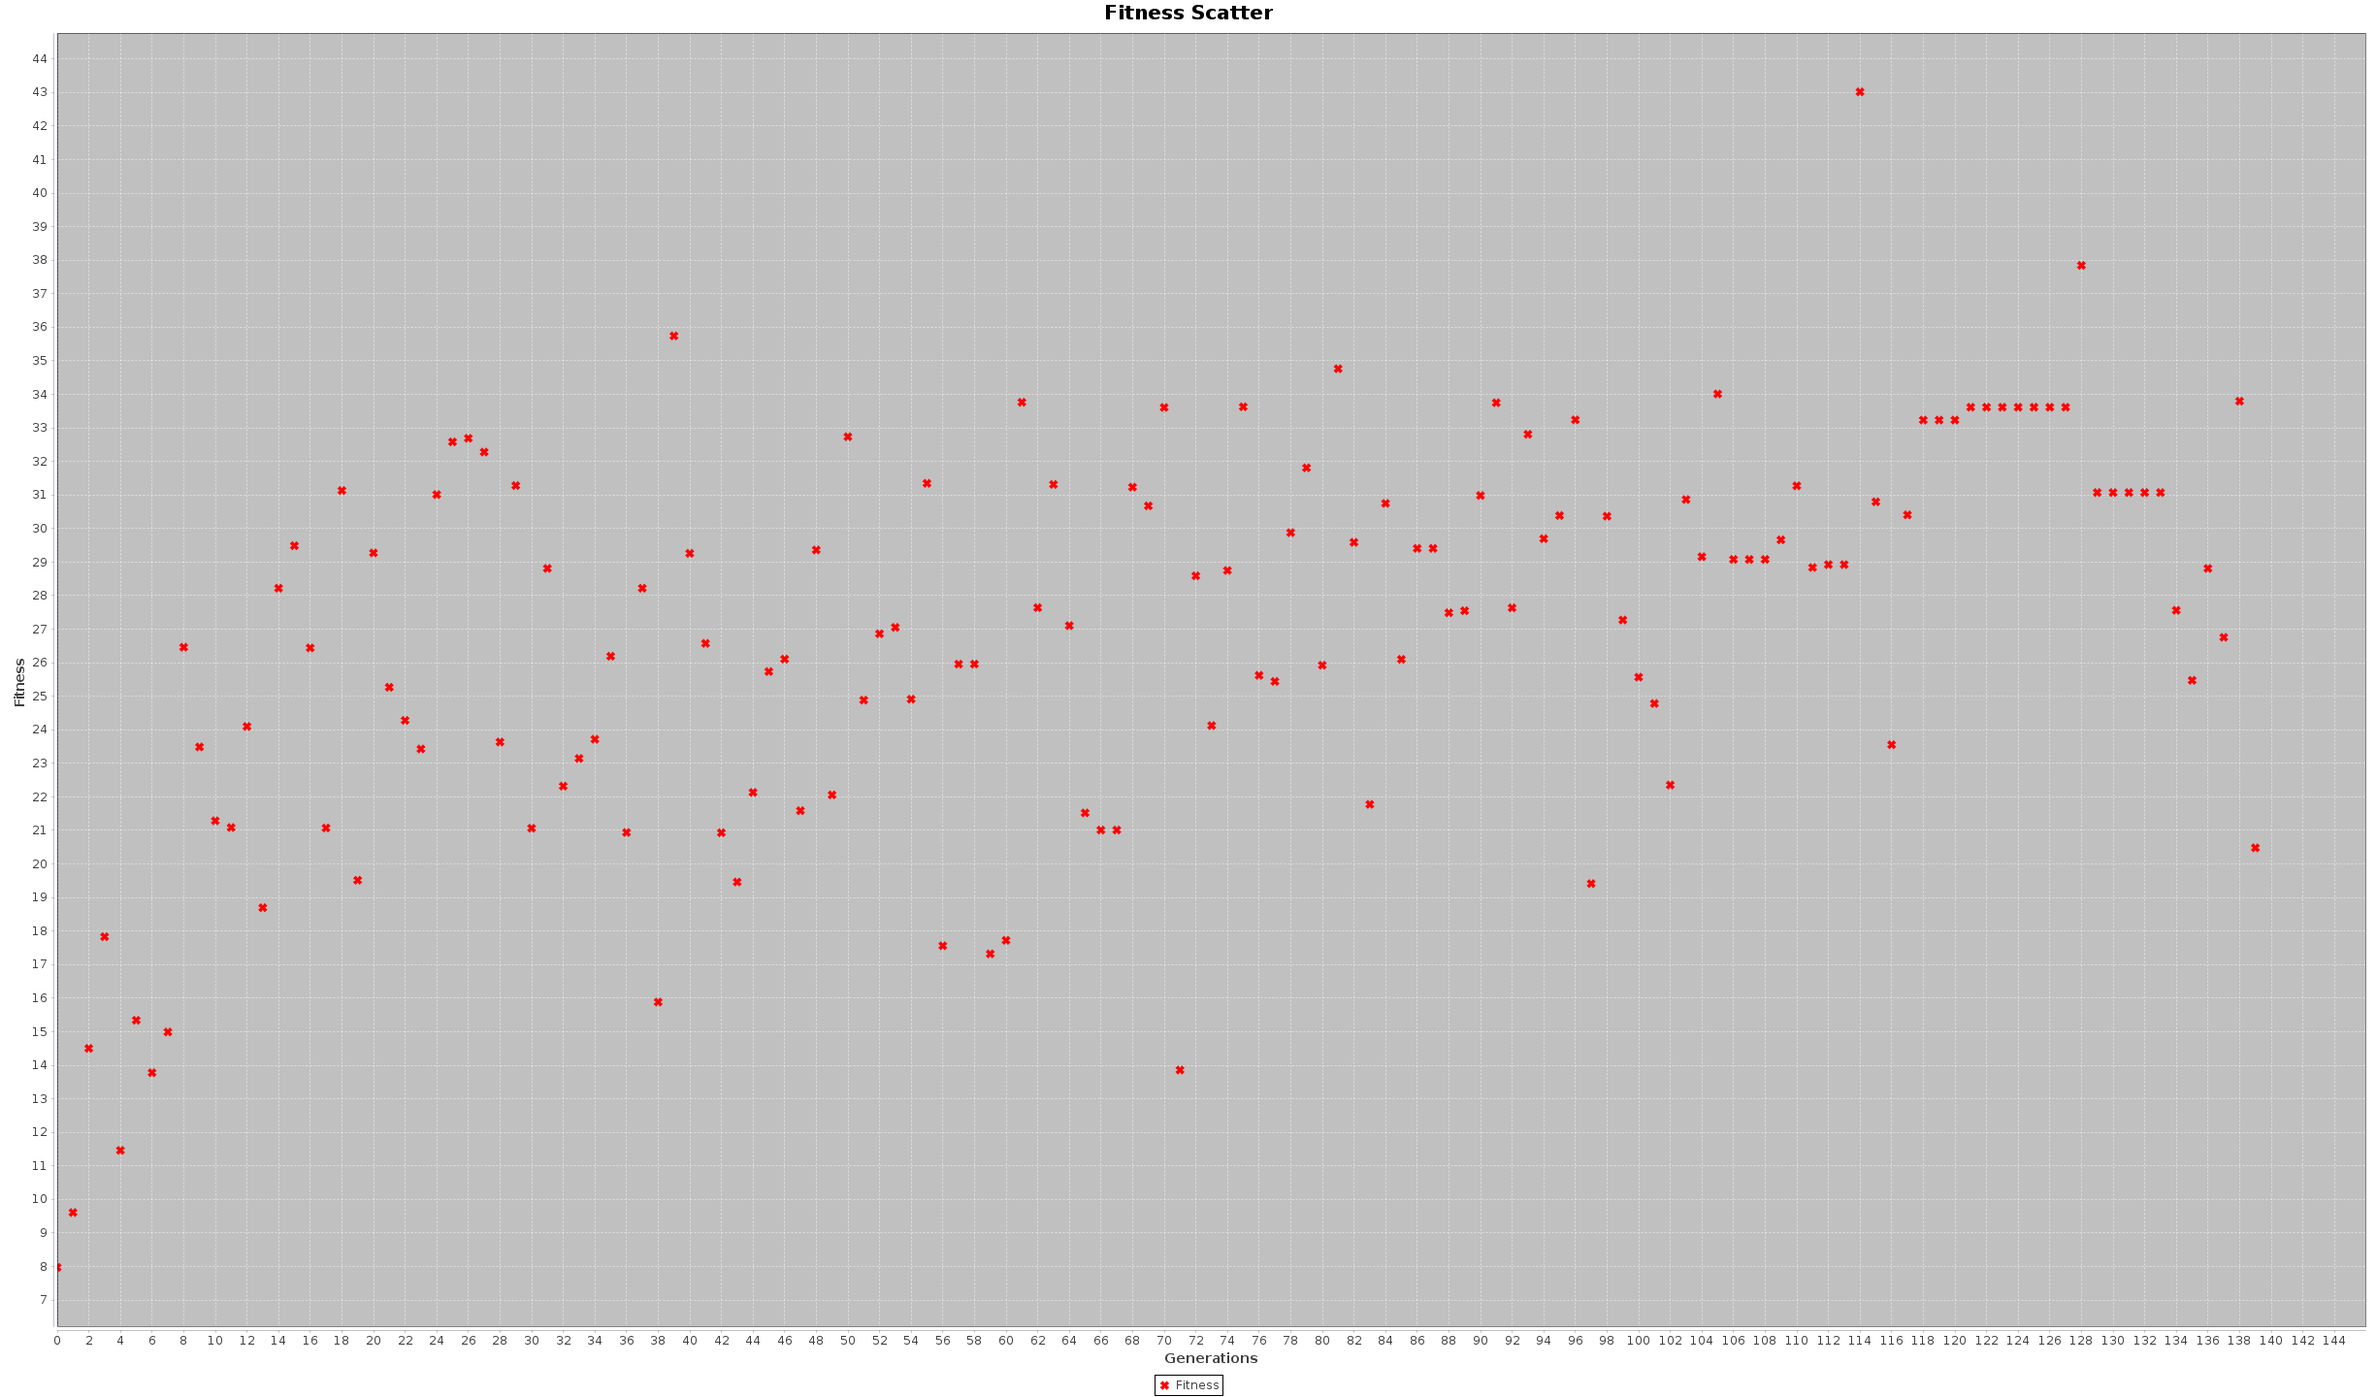
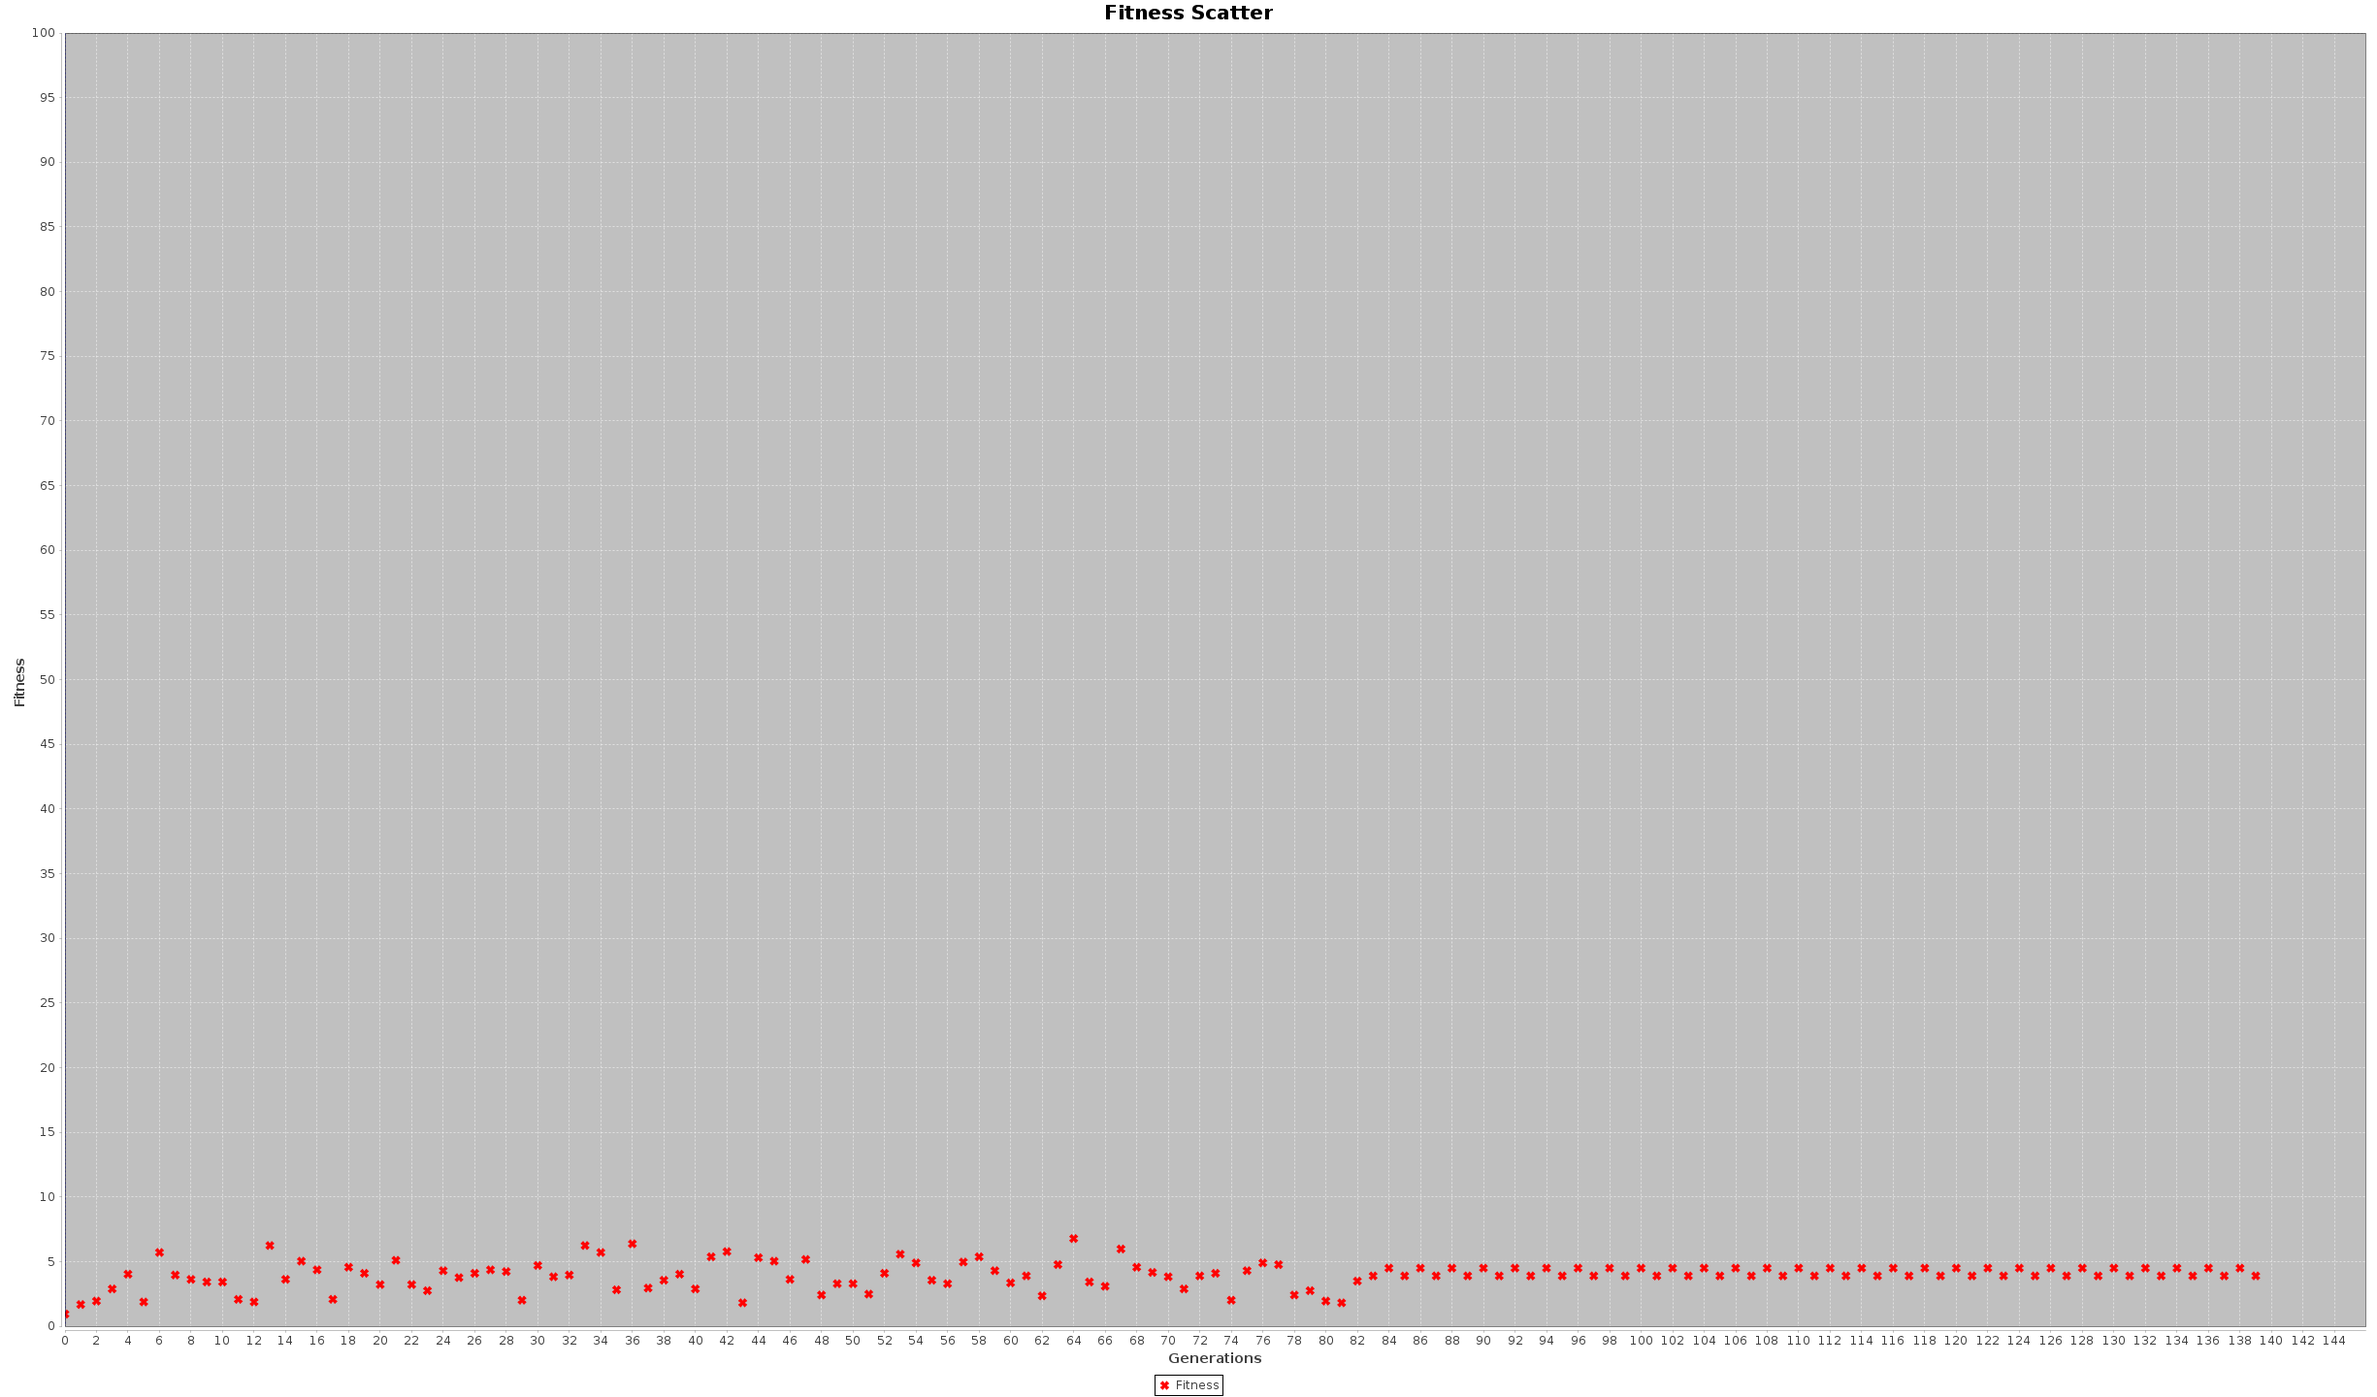
refactored

diff --git a/src/MyWorld.java b/src/MyWorld.java
@@ -16,6 +16,8 @@ import org.jfree.chart.ChartFrame;
 import org.jfree.chart.ChartRenderingInfo;
 import org.jfree.chart.ChartUtilities;
 import org.jfree.chart.JFreeChart;
+import org.jfree.chart.axis.NumberAxis;
+import org.jfree.chart.axis.NumberTickUnit;
 import org.jfree.chart.entity.StandardEntityCollection;
 import org.jfree.chart.plot.PlotOrientation;
 import org.jfree.chart.plot.XYPlot;
@@ -23,8 +25,6 @@ import org.jfree.chart.renderer.xy.XYItemRenderer;
 import org.jfree.data.xy.XYSeries;
 import org.jfree.data.xy.XYSeriesCollection;
 import org.jfree.util.ShapeUtilities;
-
-
 
 /**
 * The MyWorld extends the cosc343 assignment 2 World.  Here you can set 
@@ -50,20 +50,15 @@ public class MyWorld extends World {
     
     private int genCounter = numGenerations;
     
-    private int prevSurvivors = 0;
-    private MyCreature[] prevOldGen = null;
     private double[] averageFitnessPerGen = new double[numGenerations];
     private int avgFitIdx = 0;
-        
+    private int avgEnergy = 0;   
+    
     private double determineFitness(MyCreature creature) {
-
         double fitness = 0;
-        int state = 0;
         
-        if(creature.isDead()) state = 0;
-        else state = 1;
-            
-        fitness = creature.getEnergy() + (state * numTurns - creature.timeOfDeath());
+        avgEnergy += creature.getEnergy();
+        fitness = creature.getEnergy() * ((numTurns - creature.timeOfDeath()) / numTurns);
         
         return fitness;
     }
@@ -73,7 +68,6 @@ public class MyWorld extends World {
         MyCreature[] oldPopulation = (MyCreature[]) oldPopulationCt;
         MyCreature[] newGeneration = new MyCreature[numCreatures];
         MyCreature fittestCreature = null;
-        Deque<MyCreature> survivedCreaturesStack = new ArrayDeque<>();
         List<MyCreature>  survivedCreaturesArray = new ArrayList<>();
         
         double avgFitness = 0;
@@ -88,102 +82,45 @@ public class MyWorld extends World {
             
             avgFitness += fitness;
             
-            if(!oldPopulation[i].isDead()) {
-                if(fitness > maxFitness) {
-                    maxFitness = fitness;
-                    fittestCreature = oldPopulation[i];
-                    fittestCreatureIdx = i;
-                }
-                /*
-                survivedCreaturesStack.push(oldPopulation[i]);
-                survivedCreaturesArray.add(oldPopulation[i]);
-                noEliteCreatures++;*/
+            //if(!oldPopulation[i].isDead()) {
+                
+                            
+            if(fitness > maxFitness) {
+                maxFitness = fitness;
+                fittestCreature = oldPopulation[i];
+                fittestCreatureIdx = i;
             }
-        }      
+            
+            if(!oldPopulation[i].isDead()) {      
+                //survivedCreaturesStack.push(oldPopulation[i]);
+              survivedCreaturesArray.add(oldPopulation[i]);
+                   noEliteCreatures++;
+            }
+        }
         
         if(fittestCreature == null) {
-            System.out.println("couldn't find elite creature");
+            System.err.println("couldn't find elite creature");
+            return null;
         }
         
-        float[] fittestChromosome = fittestCreature.getChromosome();
+        int newGenIdx = 0;
         
-        for(int i = 0; i < numCreatures; i++) {
-            if(i == fittestCreatureIdx) {
-                newGeneration[i] = oldPopulation[i];
-            } else {
+        // add all creatures that survived to new population
+        for(MyCreature c : survivedCreaturesArray) {
+            newGeneration[newGenIdx++] = c;
+        }
+
+        float[] fittestChromosome = fittestCreature.getChromosome();
+
+        for(int i = 0; newGenIdx < numCreatures; i++) {
+            if(i != fittestCreatureIdx) {
                 float[] newGenes = crossOver(fittestChromosome, 
                                              oldPopulation[i].getChromosome());
-                newGeneration[i] = new MyCreature(newGenes);                
-            }
+                newGeneration[newGenIdx++] = new MyCreature(newGenes);                
+            } /*else {
+                newGeneration[i] = fittestCreature;                
+            }*/
         }
-        
-        /*
-        int currNoNewGen = 0;
-        // breed with fittest creatures
-        while(!survivedCreaturesStack.isEmpty()) {     
-
-            try {
-                // if there is only on surviver then break - no fit partner to mate.
-                if(survivedCreaturesArray.size() == 1) {
-                    break;
-                // otherwise if the stack has more than one surviver, breed the fit.
-                } else if(survivedCreaturesStack.size() > 1) {
-                    MyCreature firstParent  = survivedCreaturesStack.pop();
-                    MyCreature secondParent = survivedCreaturesStack.pop();
-
-                    float[] newGenes = crossOver(firstParent.getChromosome(), 
-                                                 secondParent.getChromosome());
-
-                    newGeneration[currNoNewGen++] = new MyCreature(newGenes);
-                // if there is only 1 parent remaining, try randomly breeding with another fit mate.
-                } else {
-                    Random rand = new Random();
-                    MyCreature mate = null;
-                    MyCreature remainingParent = survivedCreaturesStack.pop();
-                    
-                    do {
-                        int selection = rand.nextInt(noEliteCreatures);
-
-                        mate = survivedCreaturesArray.get(selection);
-                        
-                        if(!mate.equals(remainingParent)) {
-                            break;
-                        } else {
-                            mate = null;
-                        }
-                    } while(mate == null);  
-                    
-                    float[] newGenes = crossOver(remainingParent.getChromosome(), 
-                                                 mate.getChromosome());
-                    
-                    newGeneration[currNoNewGen++] = new MyCreature(newGenes);
-                }
-                
-            } catch(EmptyStackException e) {}  
-        }
-
-        // add the fittest population to new generation
-        for(MyCreature fitCreatures : survivedCreaturesArray) {
-           newGeneration[currNoNewGen++] = fitCreatures;
-        }
-        
-        // use the fittest to breed with rest of old population
-        float[] eliteChromosomes = fittestCreature.getChromosome();
-
-        int oldGenIdx = 0;
-        // cross over breeding.
-        while(currNoNewGen < numCreatures) {
-            
-            MyCreature partner = oldPopulation[oldGenIdx++];
-            
-            if(!survivedCreaturesArray.contains(partner)) {
-                float[] newGenes = crossOver(eliteChromosomes, 
-                                             partner.getChromosome());
-                newGeneration[currNoNewGen++] = new MyCreature(newGenes);
-            }
-        }
-        
-        */
 
         averageFitnessPerGen[avgFitIdx++] = avgFitness/numCreatures; 
         
@@ -198,19 +135,19 @@ public class MyWorld extends World {
         
         int xoverPoint = ran.nextInt(dominChrom.length);
         int i = 0;
-
+        
         while(i < dominChrom.length) {
             if(i < xoverPoint) {
                 offspring[i] = dominChrom[i];
             } else {
-                offspring[i] = altChrom[i]; 
+                offspring[i] = altChrom[i];
             }
             
             i++;
-        }
-        
+        } 
+
         // mutate a gene.
-        mutate(offspring);
+        //mutate(offspring);
         
         return offspring;
     }
@@ -220,18 +157,14 @@ public class MyWorld extends World {
         Random rand = new Random();
         
         // high mutation rate 
-        int mutationRate = 395;
+        int mutationRate = 3000;
         
         // have 11 / 1000 chance of mutation.
         int mutateGene = rand.nextInt(mutationRate);    
-        int altMutGene = rand.nextInt(mutationRate);
         
-        if(mutateGene < offspring.length && altMutGene < offspring.length) {
-          // offspring[mutateGene] = rand.nextFloat();
-          float copy = offspring[mutateGene];
-          
-          offspring[mutateGene] = offspring[altMutGene];
-          offspring[altMutGene] = copy;
+        if(mutateGene < offspring.length) {
+          offspring[mutateGene] = rand.nextFloat();
+
           System.out.println("mutation has occurred");
         } 
     }
@@ -351,15 +284,14 @@ public class MyWorld extends World {
      */
     @Override
     public MyCreature[] nextGeneration(Creature[] old_population_btc, int numCreatures) {
+        
         // Typcast old_population of Creatures to array of MyCreatures
         MyCreature[] old_population = (MyCreature[]) old_population_btc;
         MyCreature[] new_population = breed(old_population_btc, numCreatures); // Create a new array for the new population
-        
-        showStatus(old_population, numCreatures);
        
-        --genCounter;
+        showStatus(old_population, numCreatures);
         
-        if(genCounter == 0) {
+        if(--genCounter == 0) {
            
             // aggregate fitness data into data set.
             XYSeriesCollection fitnessDataSet = new XYSeriesCollection();
@@ -383,7 +315,7 @@ public class MyWorld extends World {
             
             // define shape of plots.
             Shape cross = ShapeUtilities.createDiagonalCross(3, 1);
-            
+
             // setup chart.
             XYPlot xyPlot = (XYPlot) jfreechart.getPlot();
             xyPlot.setDomainCrosshairVisible(true);
@@ -392,6 +324,11 @@ public class MyWorld extends World {
             renderer.setSeriesShape(0, cross);
             renderer.setSeriesPaint(0, Color.red);
        
+            // set domain and range.
+            NumberAxis range = (NumberAxis) xyPlot.getRangeAxis();
+            range.setRange(0, 100);
+            range.setTickUnit(new NumberTickUnit(5.0));
+            
             // enable AA.
             jfreechart.getRenderingHints().put(RenderingHints.KEY_ANTIALIASING, 
                                                RenderingHints.VALUE_ANTIALIAS_ON);
@@ -401,7 +338,6 @@ public class MyWorld extends World {
             frame.setPreferredSize(new Dimension(2450, 1440));
             frame.pack();
             frame.setVisible(true);
-            
             
             // save
             try {
@@ -434,8 +370,7 @@ public class MyWorld extends World {
        // Instantiate MyWorld object.  The rest of the application is driven
        // from the window that will be displayed.
        World sim = new MyWorld(gridSize, windowWidth, windowHeight, repeatableMode, 
-                                                        perceptFormat);
-
+                                                                    perceptFormat);
     }
   
 }

diff --git a/src/MyCreature.java b/src/MyCreature.java
@@ -15,7 +15,7 @@ import java.util.ArrayList;
 */
 public class MyCreature extends Creature {
     
-    private static final int CHROMO_SIZE = 21;
+    private static final int CHROMO_SIZE = 22;
     private static final int OFFSET = 9; // number of neighbourhoods + OFFSETs for creature, and food percepts.
     
     private int prevAction = 0;
@@ -28,6 +28,7 @@ public class MyCreature extends Creature {
      * Indicies 18:     encodes parameter related to eating food.
      * Indicies 19:     encodes parameter related to random move.
      * Indicies 20:     encodes parameter related to prioritizing food or avoid monsters.
+     * Indicies 21:     encodes parameter related to eat or do another move.
      */
     private float[] chromosome;
     
@@ -144,7 +145,7 @@ public class MyCreature extends Creature {
             else if(!isDangerZonesEmpty && !isFriendlyZonesEmtpy) {
                 
                 // 0.6 threshold has slight bias towards eating food over avoiding monsters.
-                if(chromosome[OFFSET*2+2] < 0.6) {
+                /*if(chromosome[OFFSET*2+2] < 0.5) {
                     for(int loc : friendlyZones) {
                         actions[loc] = chromosome[loc + OFFSET];
                     }     
@@ -152,22 +153,38 @@ public class MyCreature extends Creature {
                      for(int loc : undangerousZones) {
                         actions[loc] = chromosome[loc + OFFSET];
                     }                      
+                }*/
+                /*int bestMove = -1;
+                
+                for(int i = 0; i < undangerousZones.size(); i++) {
+                    for(int loc : friendlyZones) {
+                        if(undangerousZones.get(i) == loc) {
+                            bestMove = undangerousZones.get(i);
+                        }
+                    }
                 }
+                if(bestMove != -1)  {
+                    actions[bestMove] = chromosome[bestMove];
+                } else {*/
+                    if(chromosome[OFFSET*2+2] < 0.6) {
+                        for(int loc : friendlyZones) {
+                            actions[loc] = chromosome[loc + OFFSET];
+                        }     
+                    } else {
+                        for(int loc : undangerousZones) {
+                           actions[loc] = chromosome[loc];
+                       }                      
+                   }
+                //}
+                
             }
             
             // if foodzones are not empty
             if(!isFoodZonesEmpty) {
-                /*
-                // set ripe food as priority.
-                for(int i = 0; i < foodQuality.length; i++) {
-                    if(foodQuality[i] == 2) {
-                        actions[i] = chromosome[i];
-                    }
-                }*/
                 
                 // if prev move as same as index of a food source, then eat.                
                 if(prevFoodZones != null) {
-                    if(prevFoodZones.contains(prevAction)) {
+                    if(prevFoodZones.contains(prevAction) && chromosome[OFFSET*2+3] < 0.7) {
                         actions[OFFSET] = chromosome[OFFSET*2];
                     }
                 }
@@ -175,9 +192,7 @@ public class MyCreature extends Creature {
             }
             
             // otherwise does random move.
-        } else {
-            actions[OFFSET + 1] = chromosome[OFFSET*2 + 1];
-        }
+        } 
         
         int act = 0;
         int maxMoveIdx = 0;
